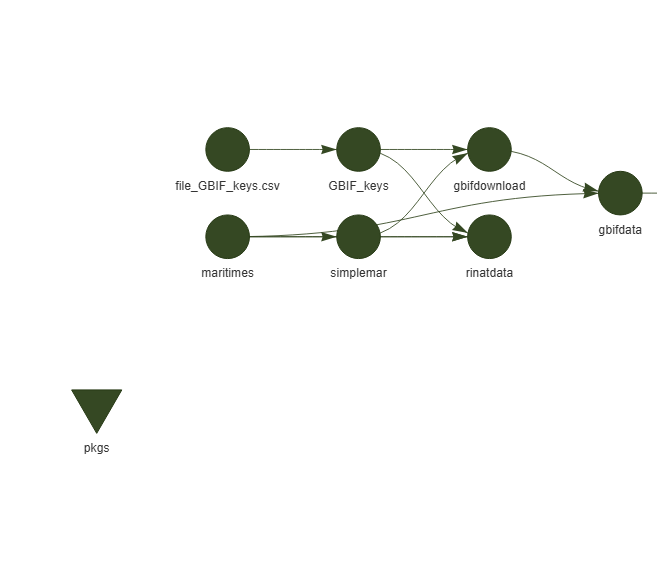
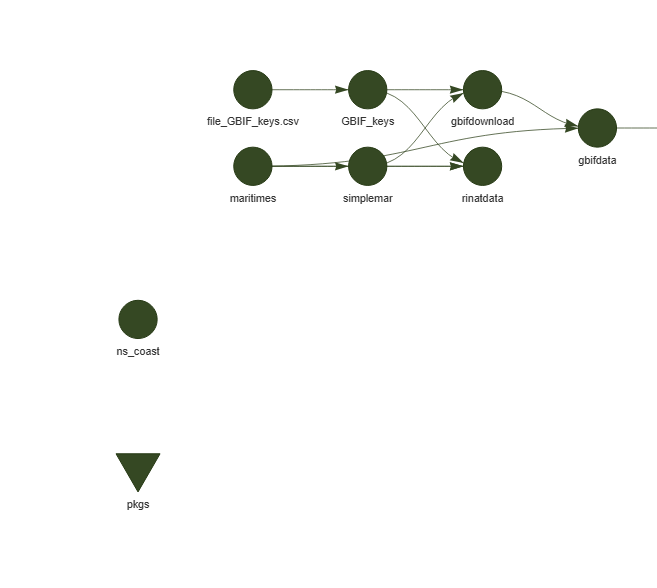
ns coast

diff --git a/README.md b/README.md
@@ -28,11 +28,11 @@ session, run `targets::tar_load(<target_name>)` or
 `targets::tar_load_everything()`.
 
 ``` r
-tar_load(c(gbifdata,rinatdata,inatdata,maritimes))
+tar_load(c(gbifdata,rinatdata,inatdata,maritimes,ns_coast))
 tar_visnetwork()
 #> Loading required package: librarian
 #> PhantomJS not found. You can install it with webshot::install_phantomjs(). If it is installed, please make sure the phantomjs executable can be found via the PATH variable.
-#> file:///C:/Users/DaigleR/AppData/Local/Temp/1/RtmpATAYpZ/file6ae8bec7f9a/widget6ae832f124b8.html screenshot completed
+#> file:///C:/Users/DaigleR/AppData/Local/Temp/1/RtmpWakrbp/file75002fbe15a5/widget75001e0b4677.html screenshot completed
 ```
 
 ![](README_files/figure-gfm/unnamed-chunk-2-1.png)<!-- -->
@@ -78,7 +78,7 @@ ggplot(rinatdata)+
 year
 
 ``` r
-ggplot(inatdata)+
+ggplot(inatdata %>% filter(year>2000, !species==""))+
   geom_bar(aes(species))+
   #rotate x-labels 90
   facet_wrap(~lubridate::year(eventDate))+
@@ -111,9 +111,10 @@ p1 <- ggplot(inatdata)+
   ylab(label = "Degrees Latitude")+
   theme_minimal()
 
-p2 <- ggplot(maritimes)+
+p2 <- ggplot(ns_coast)+
   geom_sf()+
-  geom_sf(data= inatdata, aes(fill=species), color="black",shape=21, size=2, alpha=0.7)+
+  geom_sf(data= inatdata %>% filter(decimalLatitude>42.8), aes(fill=species), color="black",shape=21, size=2, alpha=0.7)+
+  xlab(label = "Number of Observations")+
   theme_minimal()+
   theme(legend.position = "bottom")
 p2 + p1
